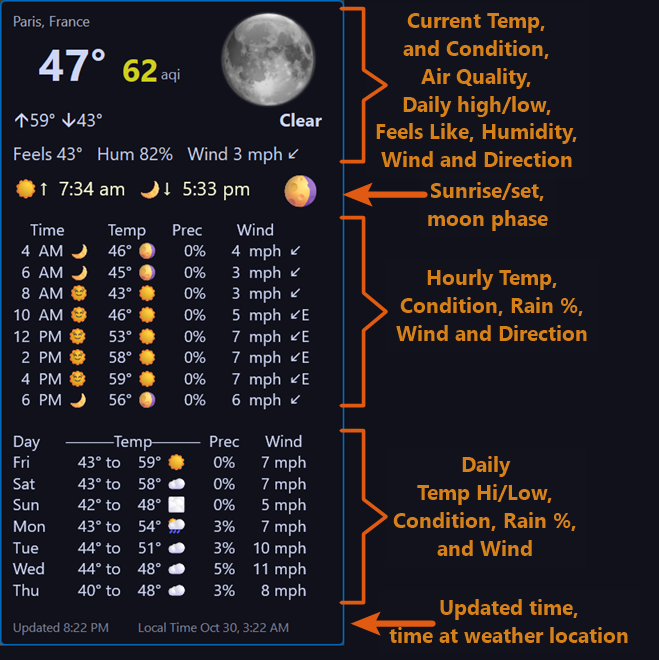
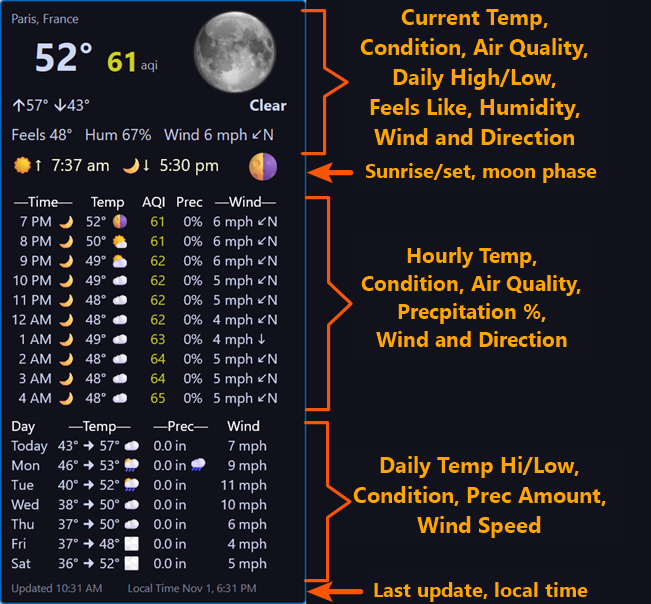
Update Docs

Changed region(s): [[0.0, 0.0, 0.9524, 1.0]]

diff --git a/README.md b/README.md
@@ -25,13 +25,13 @@ No API keys or accounts are needed. Weather and air quality come from [Open-Mete
   
 ### Hourly forecast
 
-- Time, day/night marker, temperature, weather emoji, chance of precipitation, wind speed and direction
+- Time, day/night marker, temperature, weather emoji, Air Quality, chance of precipitation, wind speed and direction
 - Starts at the next hour, with configurable row count and hour spacing (including 0 rows)
 - Hourly increment and total rows show are user configurable (0 to 15)
 
 ### Daily forecast
 
-- Weekday, low and high temperature, weather emoji, max precipitation chance, and max wind
+- Weekday, low and high temperature, weather emoji,  precipitation amount (snow or rain indicated), and max wind
 - 0 to 16 days, configurable
 
 ### Window and display
